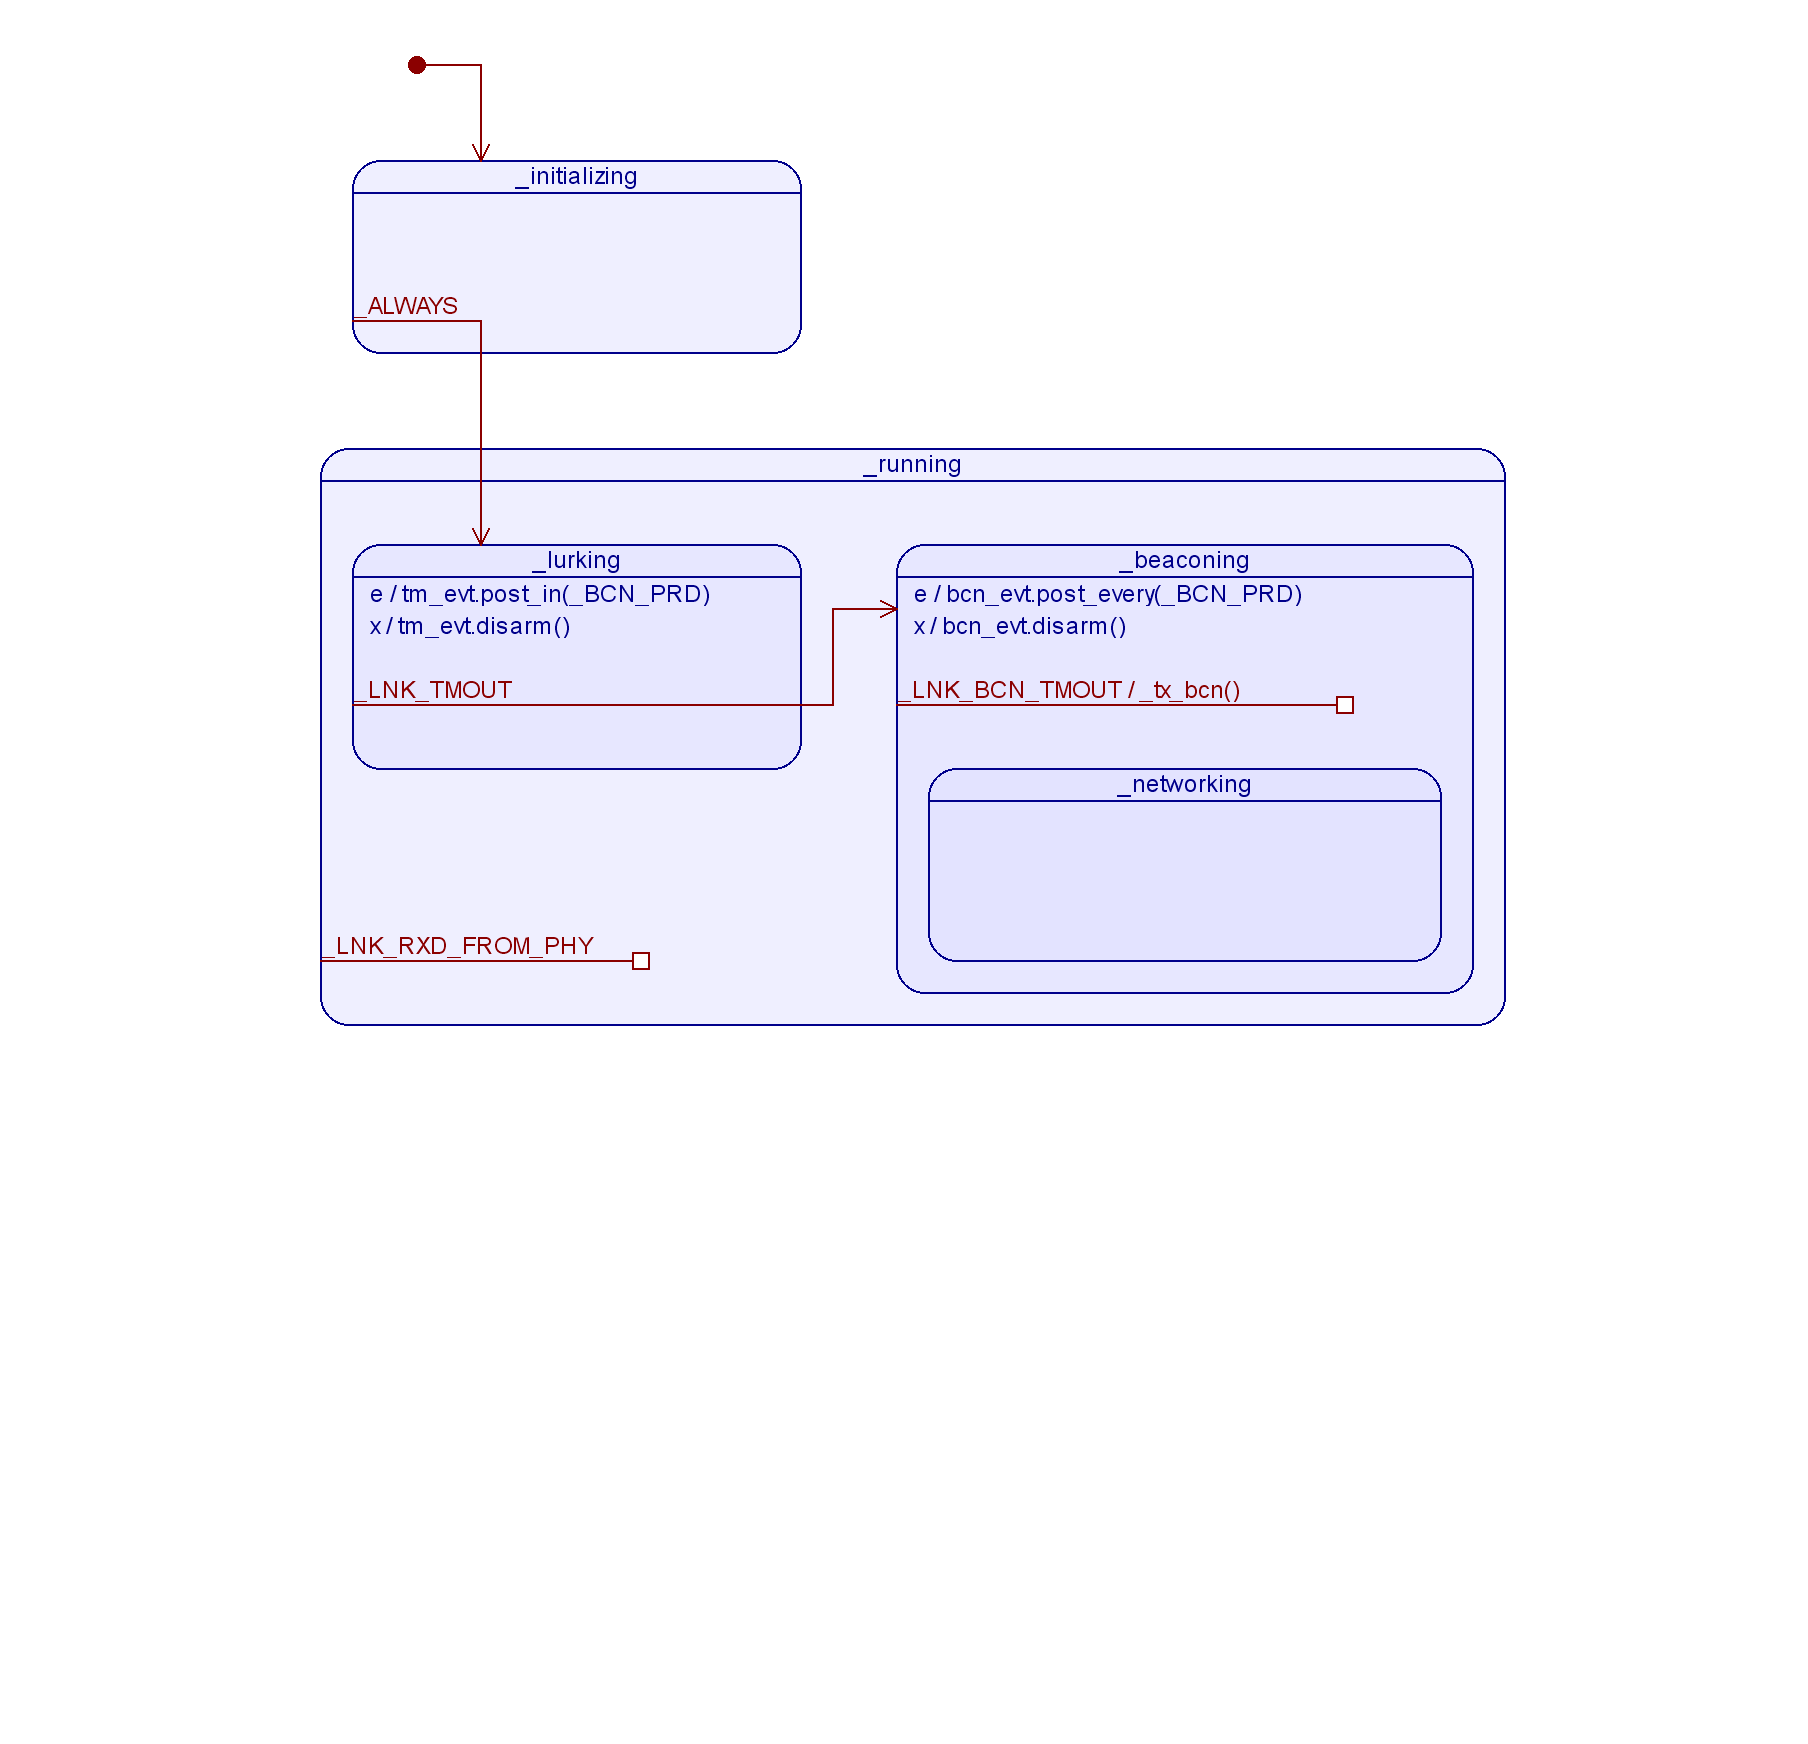
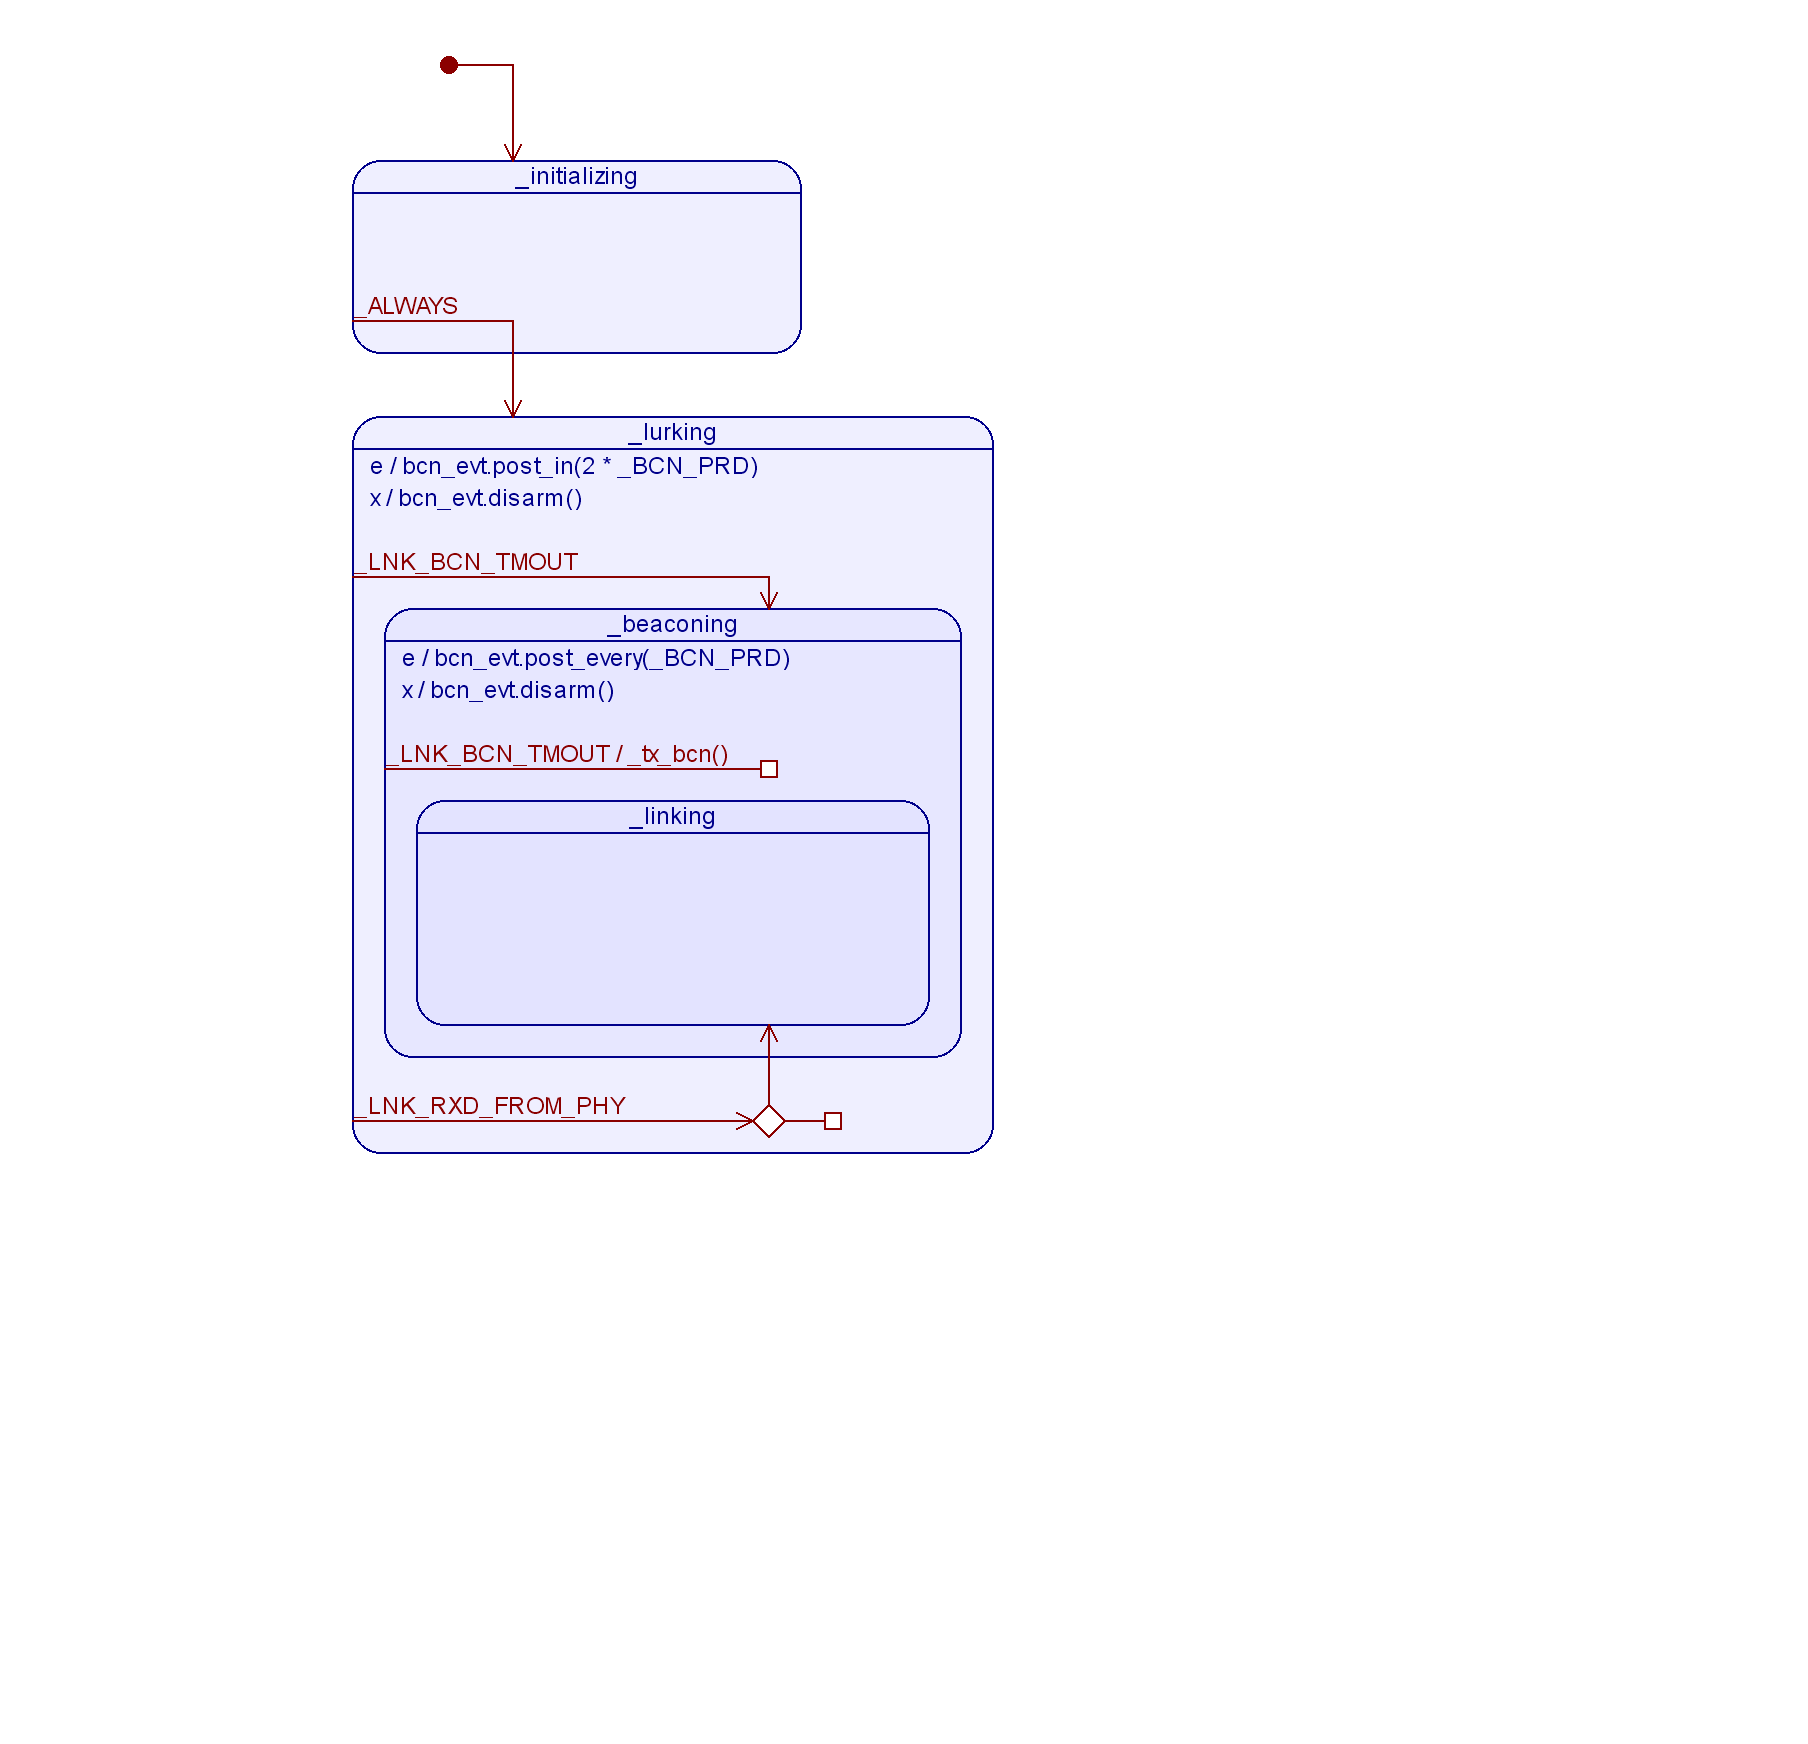
Refactor and redraw the state machine
The state machine was simplified by removing the running state.
One timer was removed, but may be needed later
when the _linking state is implemented.
Renamed private methods to follow "post" and "on" conventions.
Re-alphabetized the private methods.
Applied Python community docstring formatting convention.

diff --git a/lnk_heymac/lnk_csma_ahsm.py b/lnk_heymac/lnk_csma_ahsm.py
@@ -3,8 +3,9 @@
 Copyright 2019 Dean Hall.  See LICENSE for details.
 
 Data Link Layer (LNK) state machine for Carrier-Sense Multiple Access (CSMA)
-- listens for beacons and maintains a neighbors list
-- periodically transmits a beacon frame and an extended beacon frame
+radio operations using Heymac frame protocol.
+- listens for beacons and maintains a neighbors list with link stats
+- periodically transmits a beacon frame
 """
 
 
@@ -17,8 +18,7 @@ from . import lnk_frame
 
 
 class LnkHeymac(object):
-    """HeyMac link layer (LNK) protocol values.
-    """
+    """Heymac link layer (LNK) protocol values."""
     # The number of seconds between each emission of a beacon.
     # This value also affects the time a node spends lurking.
     _BCN_PRD = 32
@@ -47,8 +47,9 @@ class LnkHeymac(object):
 
 
 class LnkHeymacCsmaAhsm(LnkHeymac, farc.Ahsm):
-    """The link layer (LNK) state machine automates
-    medium access and frame I/O processing.
+    """The link layer (LNK) state machine.
+
+    Automates beaconing and frame processing.
     """
 
     def __init__(self, lnk_addr, station_id):
@@ -70,8 +71,11 @@ class LnkHeymacCsmaAhsm(LnkHeymac, farc.Ahsm):
 
 
     def start_stack(self, ahsm_prio, delta_prio=10):
-        """Starts the lower layer giving it a higher priority (lower number)
-        and then starts this Ahsm
+        """Starts this layer of the network stack.
+
+        This layer must start the lower layer,
+        giving it a higher priority (lower number)
+        and then starts this layer's state machine.
         """
         assert delta_prio > 0, \
             "Lower layer must have higher priority (lower number)"
@@ -86,6 +90,7 @@ class LnkHeymacCsmaAhsm(LnkHeymac, farc.Ahsm):
     @farc.Hsm.state
     def _initial(self, event):
         """PseudoState: _initial
+
         State machine framework initialization
         """
         # Self-signaling
@@ -96,8 +101,7 @@ class LnkHeymacCsmaAhsm(LnkHeymac, farc.Ahsm):
         self._evt_always = farc.Event(farc.Signal._ALWAYS, None)
 
         # Timer events
-        self.bcn_evt = farc.TimeEvent("_LNK_BCN_TMOUT")
-        self.tm_evt = farc.TimeEvent("_LNK_TMOUT")
+        self._bcn_evt = farc.TimeEvent("_LNK_BCN_TMOUT")
 
         return self.tran(self._initializing)
 
@@ -105,6 +109,7 @@ class LnkHeymacCsmaAhsm(LnkHeymac, farc.Ahsm):
     @farc.Hsm.state
     def _initializing(self, event):
         """State: _initializing
+
         Application initialization.
         Initializes LNK data and the pkt queue.
         Always transitions to the _lurking state.
@@ -132,79 +137,61 @@ class LnkHeymacCsmaAhsm(LnkHeymac, farc.Ahsm):
 
 
     @farc.Hsm.state
-    def _running(self, event):
-        """State: _running
-        Parent state to implement shared behavior
-        among _lurking, _beaconing and _networking
+    def _lurking(self, event):
+        """State: _lurking
+
+        Waits for a fixed period with the receiver enabled,
+        processes any received frames, and then
+        transitions to the _beaconing state
         """
         sig = event.signal
         if sig == farc.Signal.ENTRY:
-            logging.debug("LNK._running")
+            logging.debug("LNK._lurking")
+            self._bcn_evt.post_in(self, 2 * LnkHeymac._BCN_PRD)
             return self.handled(event)
 
+        elif sig == farc.Signal._LNK_BCN_TMOUT:
+            return self.tran(self._beaconing)
+
         elif sig == farc.Signal._LNK_RXD_FROM_PHY:
-            self._proc_rxd_frame(event.value)
+            self._on_rxd_from_phy(event.value)
             return self.handled(event)
 
         elif sig == farc.Signal.EXIT:
-            logging.debug("LNK._running @EXIT")
-            # TODO: request phy_sleep
+            self._bcn_evt.disarm()
             return self.handled(event)
 
         return self.super(self.top)
 
 
     @farc.Hsm.state
-    def _lurking(self, event):
-        """State: _running:_lurking
-        Waits for a fixed period with the receiver enabled
-        then transitions to the _beaconing state
-        """
-        sig = event.signal
-        if sig == farc.Signal.ENTRY:
-            logging.debug("LNK._lurking")
-            self.tm_evt.post_in(self, LnkHeymac._BCN_PRD)
-            return self.handled(event)
-
-        elif sig == farc.Signal._LNK_TMOUT:
-            return self.tran(self._beaconing)
-
-        elif sig == farc.Signal.EXIT:
-            self.tm_evt.disarm()
-            return self.handled(event)
-
-        return self.super(self._running)
-
-
-    @farc.Hsm.state
     def _beaconing(self, event):
-        """State: _running:_beaconing
-        - periodically transmits a beacon
-        - transitions to _networking state when bidirectional path discovered
+        """State: _lurking:_beaconing
+
+        Periodically transmits a beacon
         """
         sig = event.signal
         if sig == farc.Signal.ENTRY:
             logging.debug("LNK._beaconing")
-            self.bcn_evt.post_every(self, LnkHeymac._BCN_PRD)
-            self._tx_bcn()
+            self._bcn_evt.post_every(self, LnkHeymac._BCN_PRD)
+            self._post_bcn()
             return self.handled(event)
 
         elif sig == farc.Signal._LNK_BCN_TMOUT:
             logging.debug("LNK._beaconing@BCN_TMOUT")
-            self._tx_bcn()
+            self._post_bcn()
             return self.handled(event)
 
         elif sig == farc.Signal.EXIT:
-            self.bcn_evt.disarm()
+            self._bcn_evt.disarm()
             return self.handled(event)
 
-        return self.super(self._running)
+        return self.super(self._lurking)
 
 
     @farc.Hsm.state
     def _networking(self, event):
-        """State: _running:_beaconing:_networking
-        """
+        """State: _lurking:_beaconing:_networking"""
         sig = event.signal
         if sig == farc.Signal.ENTRY:
             logging.debug("LNK._networking")
@@ -215,38 +202,8 @@ class LnkHeymacCsmaAhsm(LnkHeymac, farc.Ahsm):
 
 # Private methods
 
-
-    def _tx_bcn(self,):
-        """Builds a Heymac CsmaBeacon and passes it to the PHY for transmit.
-        """
-        frame = lnk_frame.HeymacFrame(
-            lnk_frame.HeymacFrame.PID_IDENT_HEYMAC
-            | lnk_frame.HeymacFrame.PID_TYPE_CSMA,
-            lnk_frame.HeymacFrame.FCTL_L
-            | lnk_frame.HeymacFrame.FCTL_S)
-        frame.set_field(lnk_frame.HeymacFrame.FLD_SADDR, self._lnk_addr)
-        frame.set_field(  # lnk_cmds.HeyMacCmdCbcn( caps=0, status=0 ))
-            lnk_frame.HeymacFrame.FLD_PAYLD, b"BEACON BEACON BEACON BEACON")
-        self.phy_ahsm.post_tx_action(
-            self.phy_ahsm.TM_NOW,
-            LnkHeymac._PHY_STNGS_TX,
-            bytes(frame))
-
-
-    def _phy_rx_clbk(self, rx_time, rx_bytes, rx_rssi, rx_snr):
-        """A method given to the PHY layer as a callback.
-        The PHY calls this method with these arguments
-        when it receives a frame with no errors.
-        This method collects the arguments in a container
-        and posts an event to this state machine.
-        """
-        rxd_data = (rx_time, rx_bytes, rx_rssi, rx_snr)
-        self.post_fifo(farc.Event(farc.Signal._LNK_RXD_FROM_PHY, rxd_data))
-
-
-    def _proc_rxd_frame(self, rxd_data):
-        """Begins processing of a received frame.
-        """
+    def _on_rxd_from_phy(self, rxd_data):
+        """Processes a frame received from the PHY."""
         try:
             rx_time, rx_bytes, rx_rssi, rx_snr = rxd_data
             frame = lnk_frame.HeymacFrame.parse(rx_bytes)
@@ -268,3 +225,31 @@ class LnkHeymacCsmaAhsm(LnkHeymac, farc.Ahsm):
             # If this node should re-transmit the frame
         # elif payld is NET layer
             # Pass frame to NET layer
+
+
+    def _phy_rx_clbk(self, rx_time, rx_bytes, rx_rssi, rx_snr):
+        """A method given to the PHY layer as a callback.
+
+        The PHY calls this method with these arguments
+        when it receives a frame with no errors.
+        This method collects the arguments in a container
+        and posts an event to this state machine.
+        """
+        rxd_data = (rx_time, rx_bytes, rx_rssi, rx_snr)
+        self.post_fifo(farc.Event(farc.Signal._LNK_RXD_FROM_PHY, rxd_data))
+
+
+    def _post_bcn(self,):
+        """Builds a Heymac CsmaBeacon and posts it to the PHY for transmit."""
+        frame = lnk_frame.HeymacFrame(
+            lnk_frame.HeymacFrame.PID_IDENT_HEYMAC
+            | lnk_frame.HeymacFrame.PID_TYPE_CSMA,
+            lnk_frame.HeymacFrame.FCTL_L
+            | lnk_frame.HeymacFrame.FCTL_S)
+        frame.set_field(lnk_frame.HeymacFrame.FLD_SADDR, self._lnk_addr)
+        frame.set_field(  # lnk_cmds.HeyMacCmdCbcn( caps=0, status=0 ))
+            lnk_frame.HeymacFrame.FLD_PAYLD, b"BEACON BEACON BEACON BEACON")
+        self.phy_ahsm.post_tx_action(
+            self.phy_ahsm.TM_NOW,
+            LnkHeymac._PHY_STNGS_TX,
+            bytes(frame))
